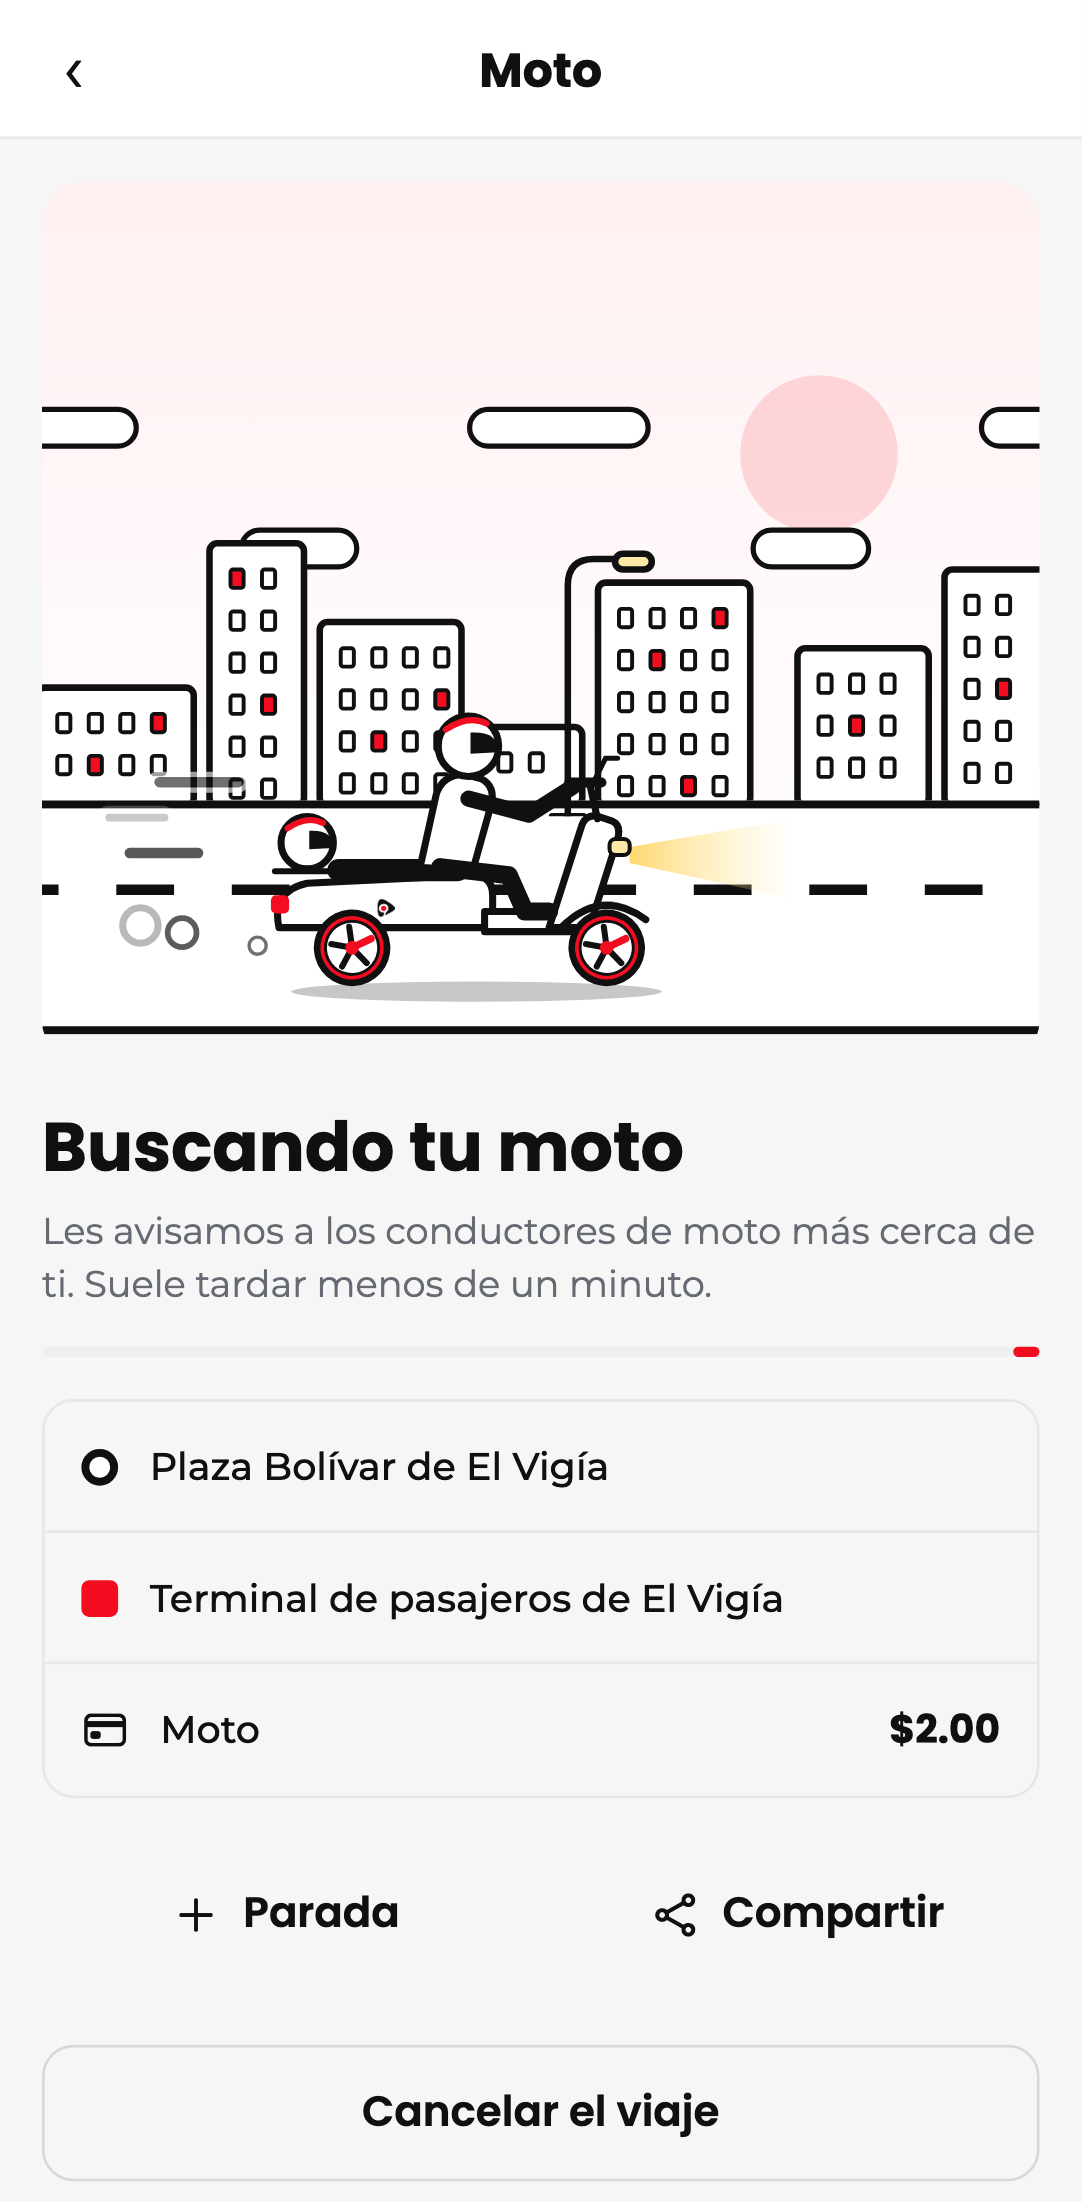
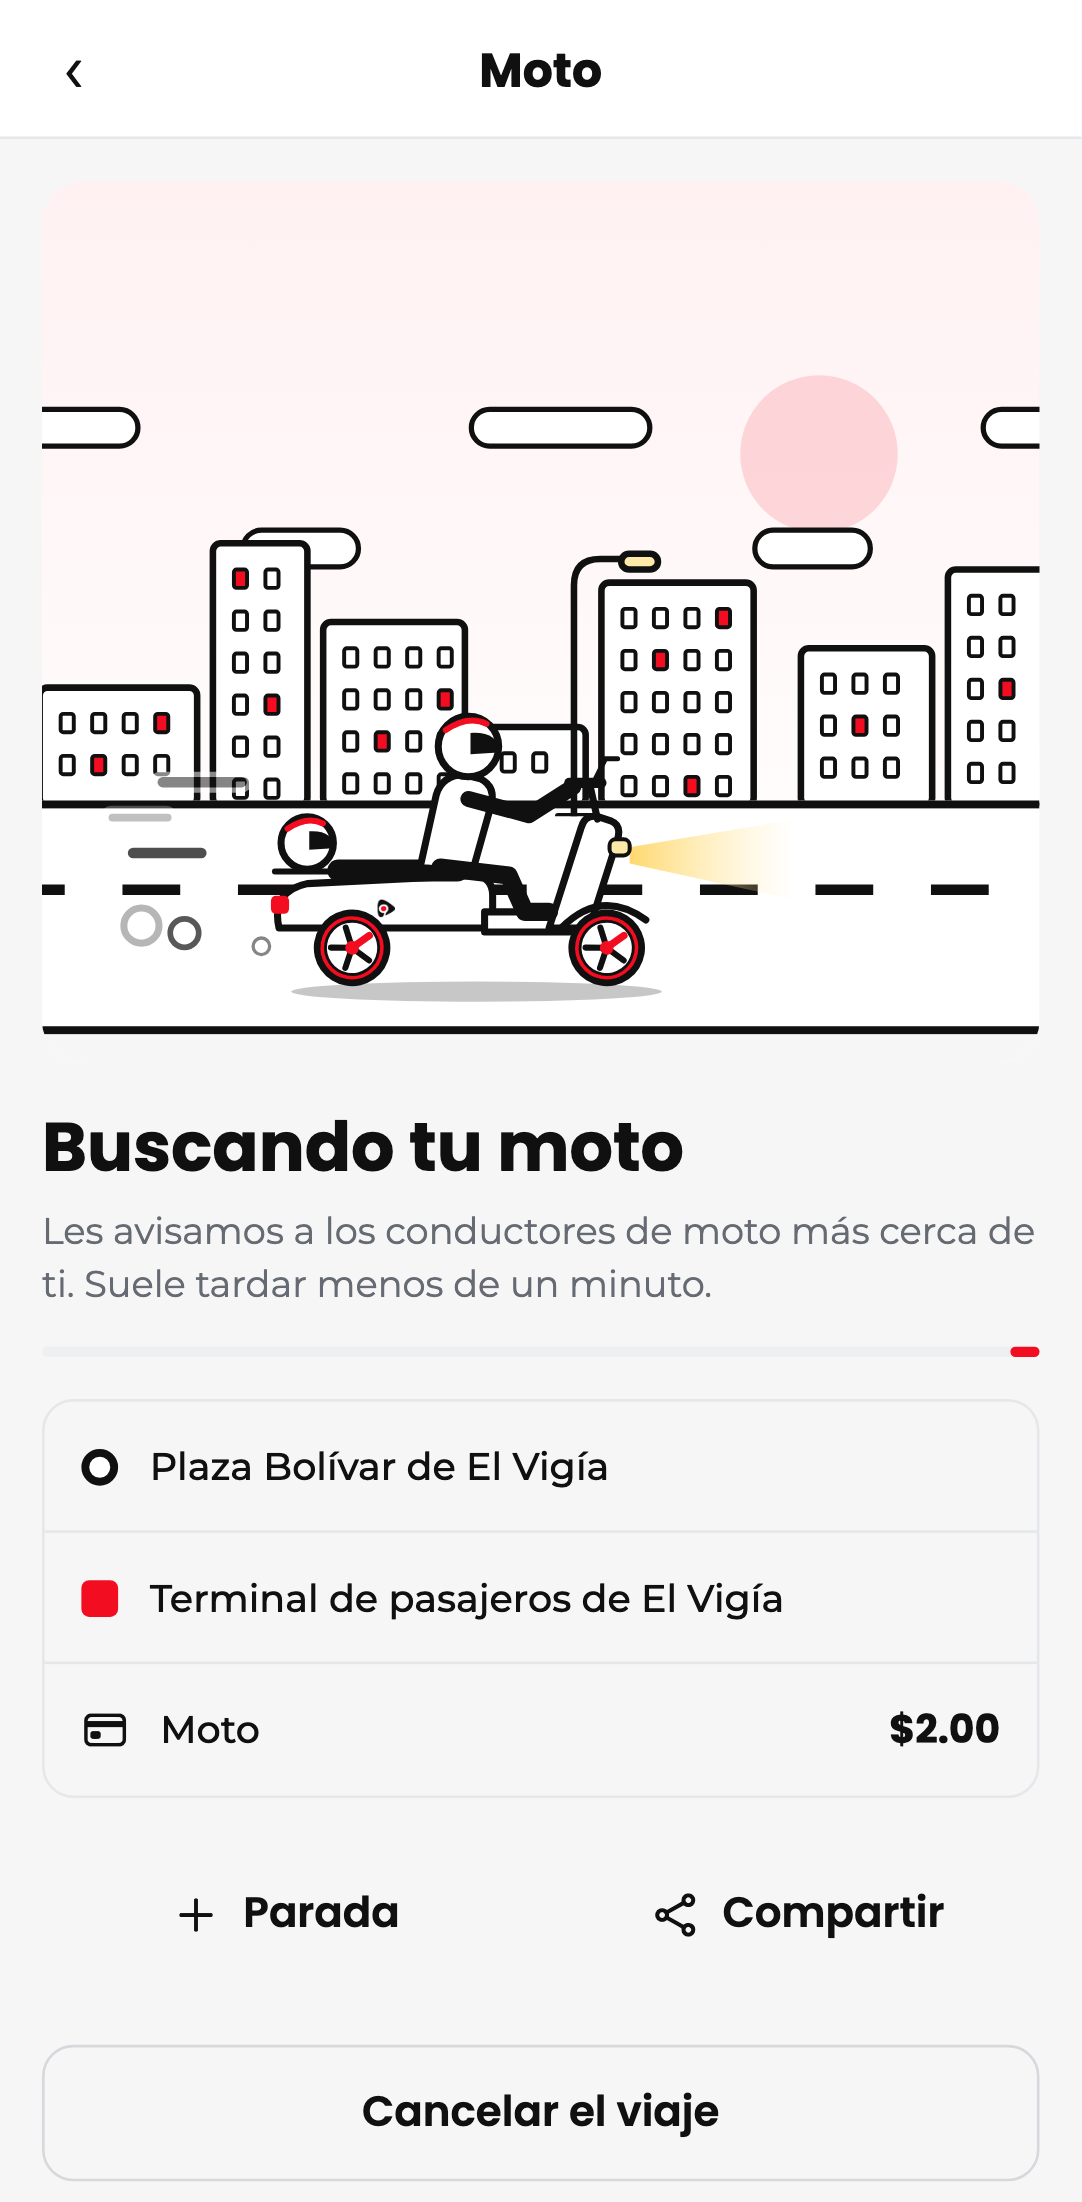
docs(viajes): guías «Mientras buscamos a tu conductor» y «Pide la misma ruta otra vez» con capturas reales en español e inglés (C-ESPERA-VEHICULO, C-MISMA-RUTA) — todos los países

diff --git a/apps/panel/src/sitio/docs/esperaViaje.ts b/apps/panel/src/sitio/docs/esperaViaje.ts
@@ -1,0 +1,123 @@
+import type { Idioma } from '@tumbite/compartido';
+import type { Captura, Guia } from './guias';
+
+/**
+ * C-ESPERA-VEHICULO (16 nov 2026) — todos los países. La guía pública «Mientras buscamos a tu
+ * conductor» (sección «Para pedir»), en español e inglés, con las cuatro esperas reales: carro, moto
+ * con pasajero, envío en moto y envío en carro. Las capturas las toma
+ * `scripts/recorrido/capturas-espera.mjs` (español en El Vigía, inglés en Novi).
+ */
+export const CAPTURAS_ESPERA = ['carro', 'moto-pasajero', 'moto-envio', 'carro-envio'] as const;
+
+const foto = (
+  nombre: (typeof CAPTURAS_ESPERA)[number],
+  idioma: Idioma,
+  alt: string,
+  pie: string,
+): Captura => ({ src: `/docs/recorrido-espera-${nombre}-${idioma}.webp`, alt, pie });
+
+const ES: Guia = {
+  id: 'ride-waiting-screen',
+  titulo: 'Mientras buscamos a tu conductor',
+  resumen:
+    'Apenas pides un viaje o un envío, ves una escena con el vehículo que pediste y la ruta con el precio. Casi siempre tarda menos de un minuto, y cancelar es gratis mientras buscamos.',
+  explicacion: [
+    'Al pedir, Divoox les avisa a los conductores más cerca de tu recogida. Mientras alguien acepta, la pantalla te muestra una escena tranquila con el vehículo de lo que pediste: un carro si pediste Carro, una moto con el casco del pasajero si pediste Moto, una moto con su caja de reparto si mandas un paquete pequeño y un carro con una caja en el techo si mandas algo mediano o grande.',
+    'Debajo ves el título de lo que estamos buscando, la recogida, el destino, el vehículo y el precio fijo. En un viaje puedes agregar una parada desde «Parada»; en un envío, «Qué envías» te muestra el paquete y quién lo recibe. «Compartir» manda el enlace del viaje a quien tú quieras.',
+    'Si tu teléfono tiene activado «reducir movimiento», la escena se queda quieta. Cuando un conductor acepta, la escena se cambia suavemente por el mapa con el conductor en camino.',
+  ],
+  capturas: [
+    foto(
+      'carro',
+      'es',
+      'La espera de un viaje en Carro: un carro blanco de línea avanza por su carril derecho frente a la ciudad, con el título «Buscando tu conductor», la ruta y el precio.',
+      'Carro: buscamos a tu conductor.',
+    ),
+    foto(
+      'moto-pasajero',
+      'es',
+      'La espera de un viaje en Moto: la moto con el piloto y el casco extra del pasajero, con el título «Buscando tu moto».',
+      'Moto: la moto lleva tu casco.',
+    ),
+    foto(
+      'moto-envio',
+      'es',
+      'La espera de un envío pequeño: la moto con su caja de reparto, el título «Buscando quién lleve tu envío», Recoger y Entregar, y el botón «Qué envías».',
+      'Envío pequeño: va en moto con caja de reparto.',
+    ),
+    foto(
+      'carro-envio',
+      'es',
+      'La espera de un envío grande: el carro con una caja amarrada al techo y el título «Buscando quién lleve tu envío».',
+      'Envío mediano o grande: va en carro.',
+    ),
+  ],
+  preguntas: [
+    '¿Cuánto tarda en aparecer un conductor?',
+    '¿Puedo cancelar mientras buscan?',
+    '¿Puedo agregar una parada mientras buscan?',
+    '¿Cómo detengo la animación de la pantalla de espera?',
+  ],
+  pasos: [
+    'Pide tu viaje o tu envío como siempre y toca el botón para confirmarlo.',
+    'Mira la pantalla de espera: el título dice qué estamos buscando y abajo están la recogida, el destino y el precio fijo.',
+    'Si quieres, toca «Parada» para agregar una parada (en un viaje) o «Qué envías» para revisar tu paquete (en un envío).',
+    'Toca «Compartir» para mandarle el enlace del viaje a alguien.',
+    'Si cambiaste de idea, toca «Cancelar el viaje» (o «Cancelar el envío»): mientras buscamos no tiene costo.',
+  ],
+  nota: 'Para que la escena no se mueva, activa «reducir movimiento» en los ajustes de accesibilidad de tu teléfono.',
+};
+
+const EN: Guia = {
+  id: 'ride-waiting-screen',
+  titulo: 'While we find your driver',
+  resumen:
+    'As soon as you request a ride or a delivery, you see a scene with the vehicle you chose, plus the route and the price. It usually takes less than a minute, and canceling is free while we search.',
+  explicacion: [
+    'When you request, Divoox lets the drivers closest to your pickup know. While someone accepts, the screen shows a calm scene with the vehicle for what you requested: a car for Car, a motorcycle carrying the passenger’s helmet for Moto, a motorcycle with a delivery box if you’re sending a small package, and a car with a box on the roof if you’re sending something medium or large.',
+    'Below it you see what we’re looking for, the pickup, the destination, the vehicle, and the upfront price. On a ride you can add a stop from “Stop”; on a delivery, “What you’re sending” shows the package and who receives it. “Share” sends the trip link to anyone you choose.',
+    'If your phone has “reduce motion” turned on, the scene stays still. When a driver accepts, the scene fades into the map with your driver on the way.',
+  ],
+  capturas: [
+    foto(
+      'carro',
+      'en',
+      'The waiting screen for a Car ride: a white line-drawn car drives in its right-hand lane past the city, with the title “Finding your driver,” the route, and the price.',
+      'Car: we’re finding your driver.',
+    ),
+    foto(
+      'moto-pasajero',
+      'en',
+      'The waiting screen for a Moto ride: the motorcycle with its rider and the passenger’s extra helmet, with the title “Finding your motorcycle.”',
+      'Moto: the motorcycle brings your helmet.',
+    ),
+    foto(
+      'moto-envio',
+      'en',
+      'The waiting screen for a small delivery: the motorcycle with its delivery box, the title “Finding a courier,” Pick up and Drop off, and the “What you’re sending” button.',
+      'Small delivery: it goes by motorcycle with a delivery box.',
+    ),
+    foto(
+      'carro-envio',
+      'en',
+      'The waiting screen for a large delivery: the car with a box strapped to the roof and the title “Finding a courier.”',
+      'Medium or large delivery: it goes by car.',
+    ),
+  ],
+  preguntas: [
+    'How long does it take to find a driver?',
+    'Can I cancel while you search?',
+    'Can I add a stop while you search?',
+    'How do I stop the animation on the waiting screen?',
+  ],
+  pasos: [
+    'Request your ride or delivery as usual and tap the button to confirm it.',
+    'Look at the waiting screen: the title says what we’re looking for, and below are the pickup, the destination, and the upfront price.',
+    'If you like, tap “Stop” to add a stop (on a ride) or “What you’re sending” to check your package (on a delivery).',
+    'Tap “Share” to send someone the trip link.',
+    'If you changed your mind, tap “Cancel ride” (or “Cancel delivery”): it’s free while we search.',
+  ],
+  nota: 'To keep the scene still, turn on “reduce motion” in your phone’s accessibility settings.',
+};
+
+export const GUIA_ESPERA: Record<Idioma, Guia> = { es: ES, en: EN };

diff --git a/apps/panel/src/sitio/docs/esperaViaje.test.ts b/apps/panel/src/sitio/docs/esperaViaje.test.ts
@@ -1,0 +1,42 @@
+import { existsSync } from 'node:fs';
+import { join } from 'node:path';
+import { describe, expect, it } from 'vitest';
+import { DOCS } from './guias';
+import { CAPTURAS_ESPERA, GUIA_ESPERA } from './esperaViaje';
+
+/**
+ * C-ESPERA-VEHICULO (16 nov 2026) — todos los países. La guía «Mientras buscamos a tu conductor» está
+ * completa en los dos idiomas, sin nada interno, con sus cuatro capturas reales, y publicada en Docs.
+ */
+const PUBLICO = join(__dirname, '..', '..', '..', 'public');
+
+describe('C-ESPERA-VEHICULO: la guía pública de la espera', () => {
+  it('está completa en español e inglés, con una captura real por vehículo', () => {
+    const { es, en } = GUIA_ESPERA;
+    expect(en.id).toBe(es.id);
+    expect(en.pasos.length).toBe(es.pasos.length);
+    for (const [idioma, g] of [
+      ['es', es],
+      ['en', en],
+    ] as const) {
+      expect(g.capturas?.length).toBe(CAPTURAS_ESPERA.length);
+      for (const c of g.capturas ?? []) {
+        expect(c.src).toContain(`-${idioma}.webp`);
+        expect(existsSync(join(PUBLICO, c.src)), c.src).toBe(true);
+      }
+      for (const q of g.preguntas ?? []) expect(q).toMatch(/\?$/);
+      const texto = JSON.stringify(g).toLowerCase();
+      for (const p of ['pronto', 'coming soon', 'tumbite', '/datos', 'superadmin', 'stripe'])
+        expect(texto).not.toContain(p);
+    }
+  });
+
+  it('está publicada en «Para pedir» en los dos idiomas', () => {
+    for (const idioma of ['es', 'en'] as const)
+      expect(
+        DOCS[idioma]
+          .find((s) => s.id === 'ordering')
+          ?.guias.some((g) => g.id === 'ride-waiting-screen'),
+      ).toBe(true);
+  });
+});

diff --git a/apps/panel/src/sitio/docs/guias.ts b/apps/panel/src/sitio/docs/guias.ts
@@ -3,6 +3,7 @@ import type { NombreIcono } from '../Icono';
 import { GUIAS_MOTO } from './borradores/moto';
 import { GUIAS_CARRO } from './carro';
 import { GUIA_MISMA_RUTA, MISMA_RUTA_PUBLICADA } from './mismaRuta';
+import { GUIA_ESPERA } from './esperaViaje';
 import { GUIAS_SEMANA } from './semana';
 import { GUIAS_OPERACIONES } from './operaciones';
 
@@ -10186,11 +10187,13 @@ function conExtras(secciones: SeccionDocs[], idioma: Idioma): SeccionDocs[] {
   const mismaRuta = MISMA_RUTA_PUBLICADA
     ? [idioma === 'es' ? GUIA_MISMA_RUTA.es : GUIA_MISMA_RUTA.en]
     : [];
+  // C-ESPERA-VEHICULO: la espera de cada servicio, con sus capturas reales.
+  const espera = idioma === 'es' ? GUIA_ESPERA.es : GUIA_ESPERA.en;
   const base = secciones.map((s) => {
     if (s.id === 'ordering')
       return {
         ...s,
-        guias: [...s.guias, ...moto.pasajero, ...carro.pasajero, ...mismaRuta, ...de(s.id)],
+        guias: [...s.guias, ...moto.pasajero, ...carro.pasajero, espera, ...mismaRuta, ...de(s.id)],
       };
     if (s.id === 'drivers')
       return { ...s, guias: [...s.guias, ...moto.conductor, ...carro.conductor, ...de(s.id)] };

diff --git a/apps/panel/src/sitio/docs/mismaRuta.ts b/apps/panel/src/sitio/docs/mismaRuta.ts
@@ -12,7 +12,7 @@ import type { Captura, Guia } from './guias';
  * `mismaRuta.test.ts` se pone en rojo si las capturas ya existen y la guía sigue sin publicar, o si se
  * publica sin ellas.
  */
-export const MISMA_RUTA_PUBLICADA = false;
+export const MISMA_RUTA_PUBLICADA = true;
 
 /** Los nombres de las capturas, en el orden de la guía. */
 export const CAPTURAS_MISMA_RUTA = ['mis-viajes', 'confirmar', 'espera', 'inicio-repetir'] as const;
